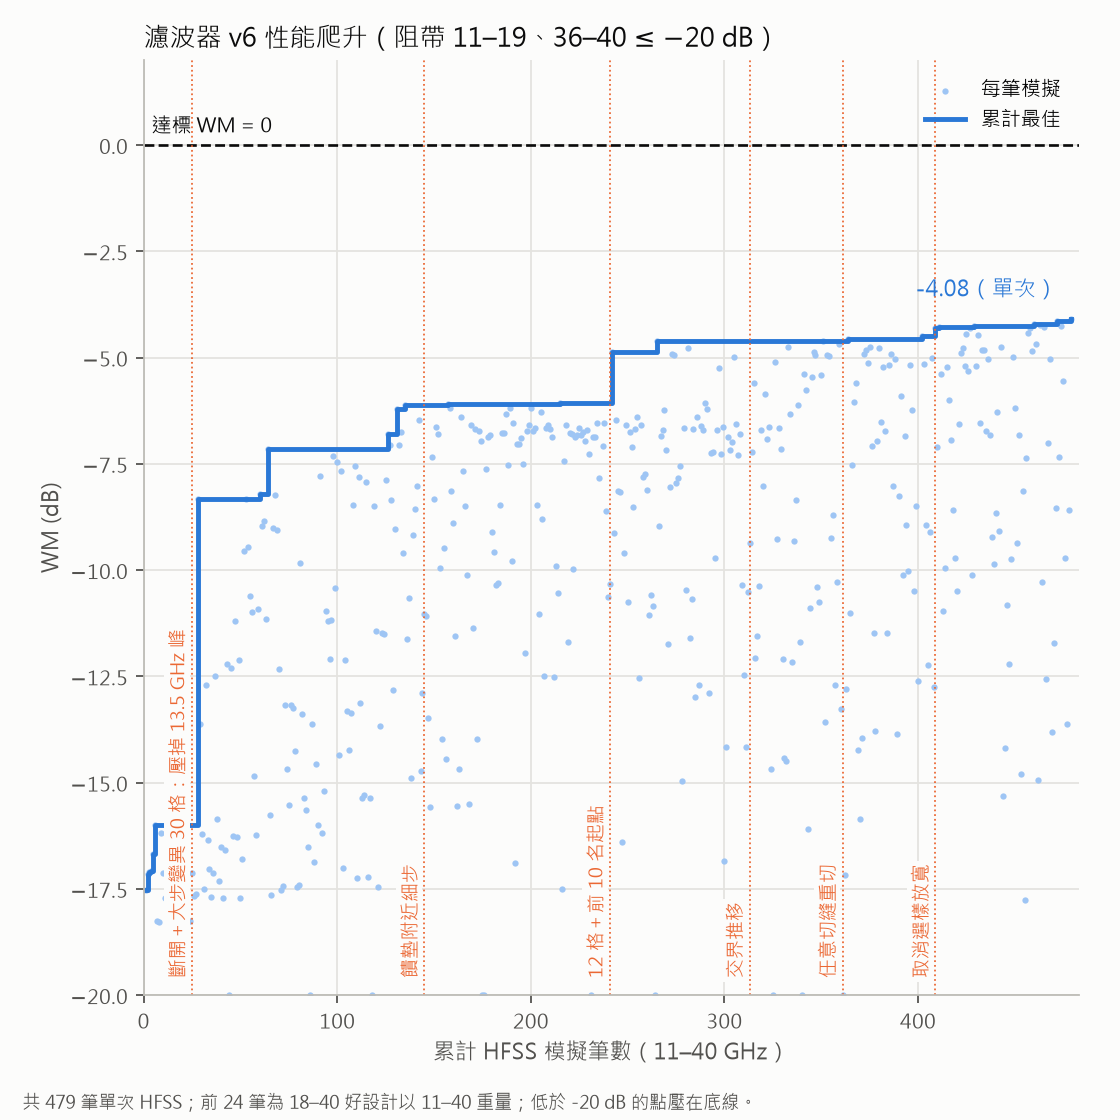
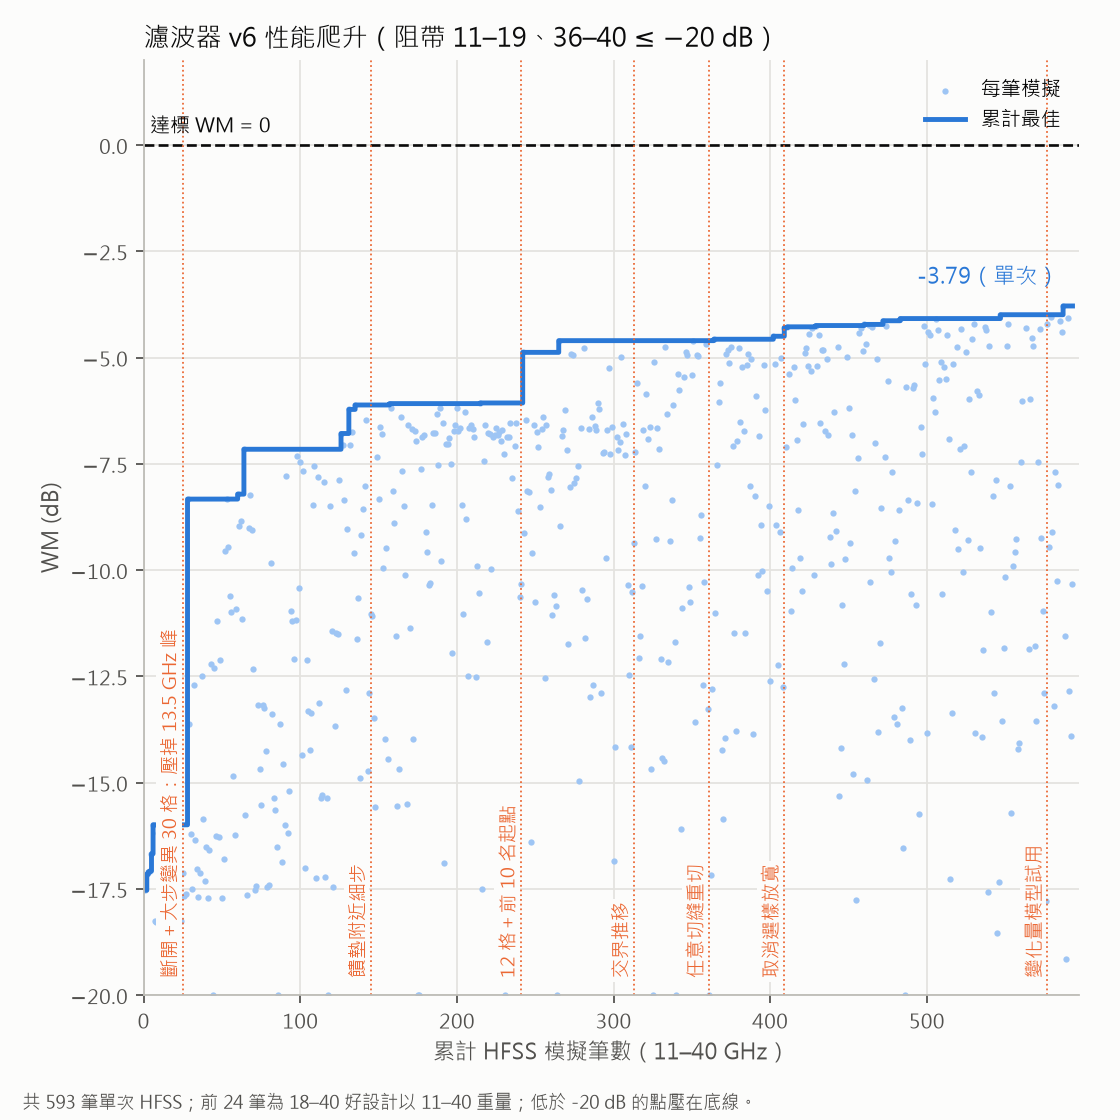
fig/log(r81/r82): v6 −3.79（單次）；S2 第 1 批——dclimb 依判準輸最佳，但預測 ρ +0.47 vs 原 SM −0.27

diff --git a/script/figs/r82_s2_trial.py b/script/figs/r82_s2_trial.py
@@ -1,0 +1,71 @@
+"""R82 S2 上線試用：同批「原 SM 挑」（climb）與「變化量模型挑」（dclimb）的預測 vs 實測，兩格各一個模型。
+
+用法：python -m script.figs.r82_s2_trial <輸出資料夾> --inputs <r81v6bNN_input 夾> [...]
+輸出：r82_s2_trial.png（左＝原 SM 預測、右＝變化量模型預測，橫軸預測、縱軸實測；各格正方形）。
+只畫兩個模型都有預測的 climb／dclimb 列（manifest 的 pred_wm_mean 與 delta_wm_mean）。
+"""
+import argparse
+import json
+from pathlib import Path
+
+import matplotlib
+matplotlib.use("Agg")
+import matplotlib.pyplot as plt
+import numpy as np
+from scipy.stats import spearmanr
+
+from script import r81_curve_sm as sm
+from script.figs import r81_progress as rp
+from script.figs.r81_v6 import V6, rows_v6
+
+ARM = {"climb": ("原 SM 挑", "#eb6834"), "dclimb": ("變化量模型挑", "#2a78d6")}
+
+
+def main(argv=None):
+    ap = argparse.ArgumentParser()
+    ap.add_argument("outdir", type=Path)
+    ap.add_argument("--inputs", nargs="+", required=True)
+    args = ap.parse_args(argv)
+    plt.rcParams["font.family"] = ["Microsoft JhengHei", "sans-serif"]
+    cfg = sm.load_cfg(V6)
+    true = {r["id"]: r["wm"] for r in rows_v6(cfg, sm.frequency_grid(cfg.measurement))}
+    pts, batches = [], set()
+    for d in args.inputs:
+        for r in json.loads((Path(d) / "manifest.json").read_text(encoding="utf-8")):
+            if r["selection_arm"] in ARM and r.get("delta_wm_mean") is not None and r["id"] in true:
+                pts.append((r["selection_arm"], r["pred_wm_mean"], r["delta_wm_mean"], true[r["id"]]))
+                batches.add(r["batch"])
+    arm = np.array([p[0] for p in pts])
+    smp, dlp, act = (np.array([p[i] for p in pts]) for i in (1, 2, 3))
+    lo = min(smp.min(), dlp.min(), act.min()) - 0.5
+    hi = max(smp.max(), dlp.max(), act.max()) + 0.5
+    fig, axes = plt.subplots(1, 2, figsize=(11, 6.6), dpi=160)
+    fig.patch.set_facecolor(rp.SURF)
+    for ax, pred, name in ((axes[0], smp, "原 SM 預測"), (axes[1], dlp, "變化量模型預測")):
+        ax.plot([lo, hi], [lo, hi], color=rp.MUTED, lw=1, ls="--")
+        for a, (lab, col) in ARM.items():
+            k = arm == a
+            ax.scatter(pred[k], act[k], s=46, color=col, label=f"{lab}（最佳 {act[k].max():+.2f}、中位 {np.median(act[k]):+.2f}）",
+                       edgecolor="white", lw=0.6)
+        rho = spearmanr(pred, act)[0]
+        ax.set_title(f"{name}：與實測排序 ρ {rho:+.2f}、平均誤差 {np.abs(pred - act).mean():.2f} dB",
+                     loc="left", fontsize=10.5, color=rp.INK)
+        ax.set_xlim(lo, hi); ax.set_ylim(lo, hi)
+        ax.set_xlabel("預測 WM (dB)", color=rp.MUTED); ax.set_ylabel("HFSS 實測 WM (dB)", color=rp.MUTED)
+        ax.legend(loc="lower right", frameon=False, fontsize=8.5)
+        rp.style(ax)
+        ax.set_box_aspect(1)
+    b = "、".join(f"b{x}" for x in sorted(batches))
+    fig.suptitle(f"R82 上線試用（{b}）：同批爬山名額，原 SM 挑 vs 變化量模型挑", x=0.03, ha="left", fontsize=12.5, color=rp.INK)
+    fig.text(0.03, 0.01, "每點＝一筆候選；虛線＝預測等於實測。兩個模型對同一批 10 筆都有預測，可直接比誰看得準。",
+             fontsize=8.5, color=rp.MUTED)
+    fig.tight_layout(rect=(0, 0.05, 1, 0.94))
+    args.outdir.mkdir(parents=True, exist_ok=True)
+    out = args.outdir / "r82_s2_trial.png"
+    fig.savefig(out, facecolor=rp.SURF)
+    plt.close(fig)
+    print("saved", out, len(pts))
+
+
+if __name__ == "__main__":
+    main()

diff --git a/script/figs/r81_v6.py b/script/figs/r81_v6.py
@@ -19,7 +19,7 @@ from script.figs import r81_progress as rp
 DOT, LINE, MARK = "#9ec5f4", "#2a78d6", "#eb6834"
 V6, V6A = sm.REPO / "configs" / "dual_r81_v6.yaml", sm.REPO / "configs" / "dual_r81_v6a.yaml"
 EVENTS = [(62, "斷開＋大步變異 30 格：壓掉 13.5 GHz 峰"), (67, "饋墊附近細步"), (71, "12 格＋前 10 名起點"),
-          (74, "交界推移"), (76, "任意切縫重切"), (78, "取消選樣放寬")]
+          (74, "交界推移"), (76, "任意切縫重切"), (78, "取消選樣放寬"), (85, "變化量模型試用")]
 
 
 def rows_v6(cfg, grid):

diff --git a/docs/log/round-82-delta-surrogate.md b/docs/log/round-82-delta-surrogate.md
@@ -168,6 +168,18 @@
 - 註：這 4 群都極密集，每個查詢都在每個已量設計的 12 格內（174×436＝75,864 組配對），「組內 ρ」退化成與整體 ρ 相同，判讀以整體 ρ 為準。
 - v6 回測跑中（每批約 12 分鐘）；之後跑可變 K（1–4）的歷史驗證。
 
+### 2026-10-20 03:11：S2 第 1 批（b85）判讀——依判準 dclimb 輸（最佳），但預測準度遠勝原 SM
+
+| 臂 | 實測（5 筆） | 最佳 | 中位 |
+|---|---|---|---|
+| climb（原 SM 挑） | −3.79、−4.05、−9.10、−12.84、−13.91 | **−3.79**（全體新高，單次） | −9.10 |
+| dclimb（變化量模型挑） | −4.07、−4.13、−4.20、−4.39、−9.47 | −4.07 | **−4.20** |
+
+- 依 §2 判準（最佳與中位皆不輸）：最佳輸 → 本批 dclimb **未過**。
+- 同 10 筆的預測準度：原 SM 排序 ρ **−0.27**、平均誤差 3.22 dB；變化量模型 ρ **+0.47**、誤差 **1.05 dB**。變化量模型事先就把原 SM 挑的 3 筆判為 −9.0／−11.8／−12.1（實測 −9.1／−12.8／−13.9）。失手兩筆：低估新冠軍 `b85_007`（預測 −4.80、實測 −3.79），高估 `b85_003`（預測 −4.01、實測 −9.47）。
+- 初步解讀：變化量模型擅長避開地雷，選得穩；冠軍出現在高變異處。可考慮的用法（不在本試用內，待 3 批後討論）：以變化量模型過濾地雷、原 SM 或探索在剩下的候選裡搶最佳。
+- 圖：![S2](assets/round-82/r82_s2_trial.png)（`python -m script.figs.r82_s2_trial docs/log/assets/round-82 --inputs <b85 input>`）
+
 ## 5. 結論 (Conclude)
 
 ## 6. 後續決策 (Next)

diff --git a/docs/log/round-81-wide-filter.md b/docs/log/round-81-wide-filter.md
@@ -598,3 +598,8 @@ Ricky 要求 S11、S22 一起達標（沿用 R81 原匹配條件 26.5–29.5 GHz
 - b83 `r81v2_b83_008_9dbf103d`（climb2，父 `b80_001`，SM 預測 −3.79）WM **−3.99**：通帶 −2.21、低阻 −3.88、高阻 −0.55、S11 −3.85、S22 −3.99。S11 與 S22 只差 0.14，四項都在 −3.9 附近，較平衡。b84 最佳 −4.30。
 - b86（已入佇列）：rot 4（`b80_001`／`b80_003` 對稱化，SM 預測 −8.1～−7.4）、dclimb 5、climb 5、exploit 1、explore 4、random 5。
 - exploit 只剩 1：原 SM holdout 自檢轉差（ρ 0.68→0.49→0.40、MAE 3.13→2.85→3.95，b86 劣於常數基準 3.88）→ `quality_ok=False`，配額自動降 exploit、補 random（既有保護機制，非程式錯誤）。holdout 混入 reseam／mincut 等極端設計，自檢本身也會跳動。
+
+## 2026-10-20 03:11：v6 −3.79（單次）
+
+- `r81v2_b85_007_d9f3eaff`（climb1，原 SM 挑，父 b83 系）WM **−3.79**：通帶 −1.47、低阻 **−3.79**、高阻 −2.53、S11 −1.68、S22 −3.51。S11 大幅改善，限制項轉為低阻帶。
+- 爬升圖加註 b85「變化量模型試用」：![爬升](assets/round-81/r81v6_climb.png) ![最佳](assets/round-81/r81v6_best_card.png)

diff --git a/script/figs/README.md b/script/figs/README.md
@@ -48,3 +48,4 @@ dedust store / pool 快取。R6 的圖走 `python -m script.expected_best report
 - `r81_v6.py` — R81 學長 v6 規格（11–40 GHz、阻帶 ≤ −20）：性能爬升（補量＋b62 起各批）與目前最佳設計卡片（S21／S11／S22 各一格＋pattern）→ `docs/log/assets/round-81/r81v6_climb.png`、`r81v6_best_card.png`
 - `r81_v6_question.py` — R81 問學長用：v4x 最佳設計 b57_004 以 11–40 GHz 重量後，分別套 v4x 與學長 v6 spec 的 S21（標出 13.5–14 GHz 漏點）→ `docs/log/assets/round-81/r81_v6_question.png`
 - `r81_reseam.py` — R81 任意切縫示意：v6 最佳斷開設計（直線交界）與三個鋸齒切縫重切變體（上下主體與浮島分色）→ `docs/log/assets/round-81/r81_reseam_demo.png`
+- `r82_s2_trial.py` — R82 上線試用：同批爬山名額「原 SM 挑」vs「變化量模型挑」的預測 vs 實測（兩格各一模型）→ `docs/log/assets/round-82/r82_s2_trial.png`
